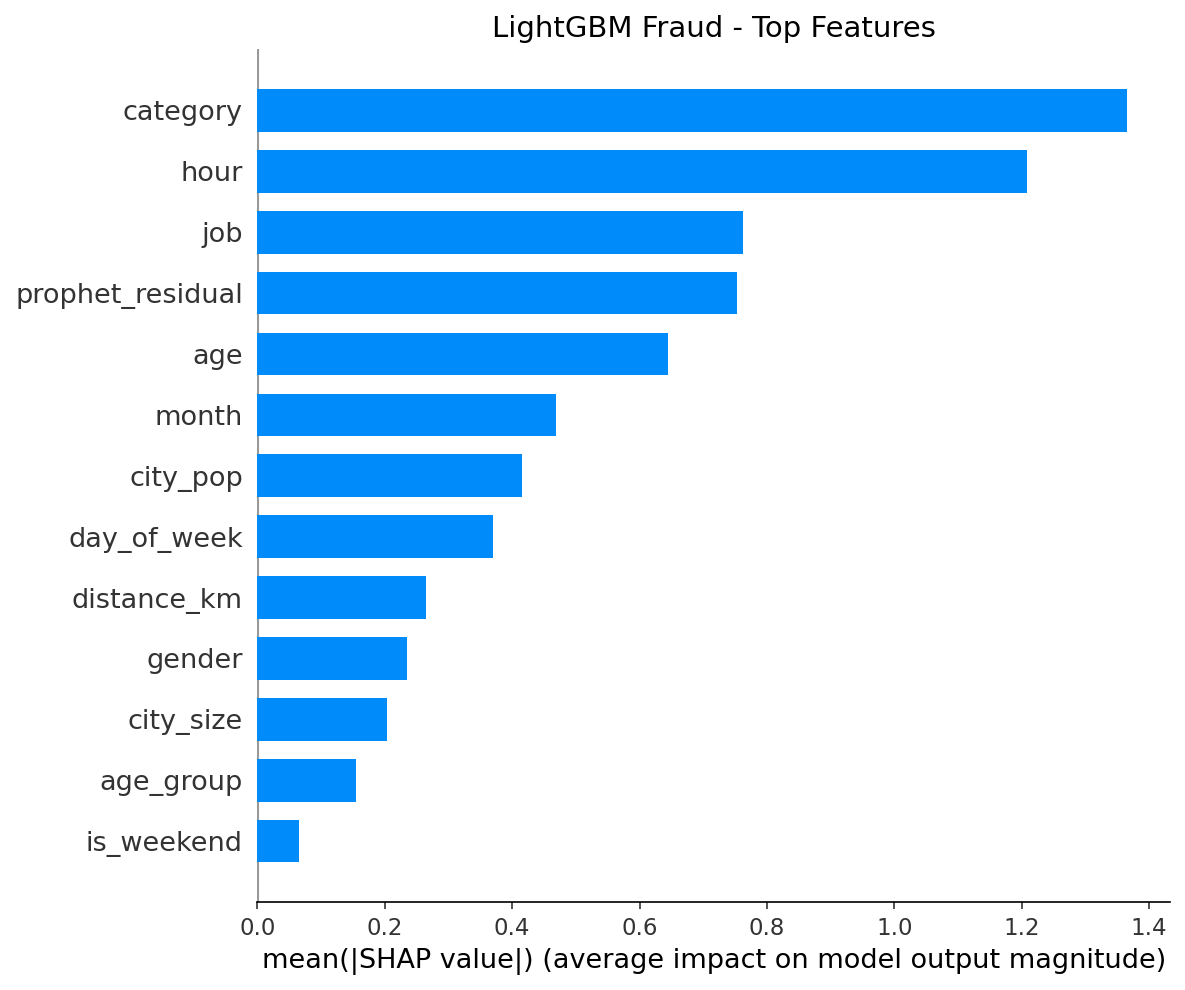
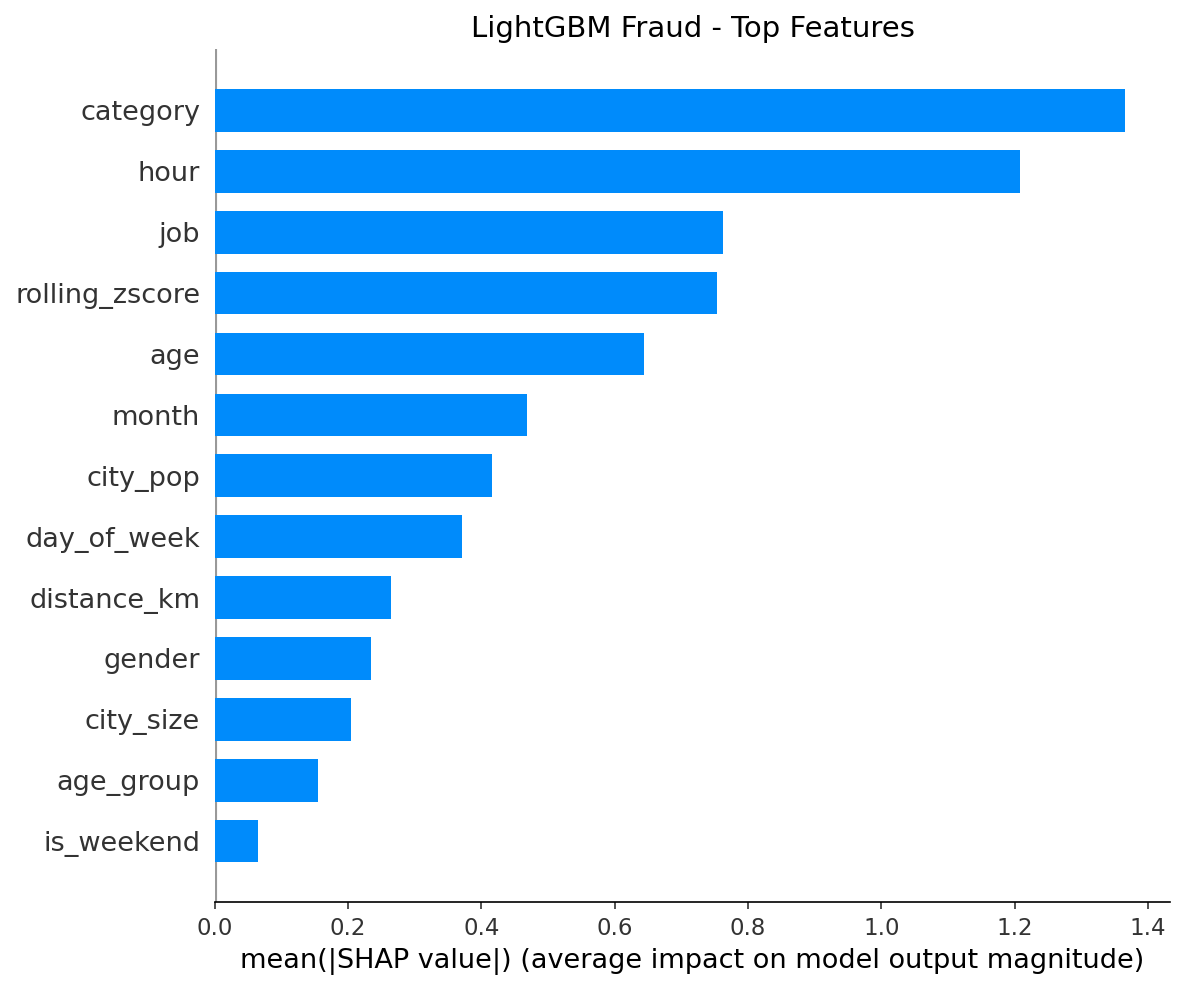
Run SHAP Analysis to obtain six plots and update README

diff --git a/README.md b/README.md
@@ -1,5 +1,12 @@
 # Credit Fraud & Spend Intelligence
-**What behavioral and demographic patterns predict high spending and do fraudulent transactions mimic those same patterns or have clearly different signatures? This is an end-to-end machine learning project that answers that question. It analyzes transaction behavior to model spending patterns and detect fraud, with feature engineering, Rolling Z-Score for residuals, XGBoost, LightGBM, TabNet deep learning, Optuna optimization, and SHAP-based interpretability. Dataset from https://www.kaggle.com/datasets/priyamchoksi/credit-card-transactions-dataset/data** by priyamchoksi.
+
+**What behavioral and demographic patterns predict high spending, and do fraudulent transactions mimic those same patterns or have clearly different signatures?**
+
+An end-to-end machine learning project that answers that question through leakage-free feature engineering, rolling z-score anomaly detection, gradient boosting models, deep learning baselines, Optuna hyperparameter optimization, and SHAP-based interpretability. Approximately 1.3 million credit card transactions are analyzed to model spending patterns and detect fraud with production-ready code.
+
+Dataset sourced from Kaggle — ["Credit Card Transactions Dataset"](https://www.kaggle.com/datasets/priyamchoksi/credit-card-transactions-dataset) by priyamchoksi.
+
+---
 
 ## Key Results
 
@@ -22,23 +29,14 @@
 
 ## Key Findings
 
-1. **Tree Models Are Robust:** LightGBM and XGBoost achieved near-optimal 
-   performance with default parameters. Optuna optimization yielded minimal 
-   improvement (0-0.6%), confirming production-readiness out of the box.
+1. **Tree Models Are Robust:** LightGBM and XGBoost achieved near-optimal performance with default parameters. Optuna optimization yielded minimal improvement (0-0.6%), confirming production-readiness out of the box.
 
-2. **Class Imbalance Is Critical:** Fraud detection improved 158% through 
-   optimized scale_pos_weight (0.31 → 0.80 F1), demonstrating that handling 
-   imbalance is more impactful than tree hyperparameters.
+2. **Class Imbalance Is Critical:** Fraud detection improved 158% through optimized scale_pos_weight (0.31 to 0.80 F1), demonstrating that handling imbalance is more impactful than tree hyperparameters.
 
-3. **Architecture Over Hyperparameters:** Deep learning models (MLP, LSTM) 
-   underperformed trees by 1-16% regardless of tuning. LSTM showed the largest 
-   gap at 16% worse RMSE, confirming that gradient boosting is better suited 
-   for structured tabular data than neural networks.
+3. **Architecture Over Hyperparameters:** Deep learning models (MLP, LSTM) underperformed trees by 1-16% regardless of tuning. LSTM showed the largest gap at 16% worse RMSE, confirming that gradient boosting is better suited for structured tabular data than neural networks.
 
-4. **Fraud and Spend Share Top Features, But Use Them Differently:** Both 
-   models identify merchant category and transaction hour as top predictors. 
-   However, spend models use these to predict expected amounts, while fraud 
-   models use them to detect deviations from individual user norms.
+4. **Fraud and Spend Share Top Features, But Use Them Differently:** Both models identify merchant category and transaction hour as top predictors. However, spend models use these to predict expected amounts, while fraud models use them to detect deviations from individual user norms.
+
 ---
 
 ## SHAP Feature Importance Analysis
@@ -51,7 +49,7 @@
 **Top 4 Features:**
 
 | Rank | Feature | Avg SHAP Value | What It Means (Example) |
-|------|---------|----------------|---------------|
+|------|---------|----------------|-------------------------|
 | 1 | category | 22.5 | Electronics adds +$200-400 vs Groceries at +$20-50 |
 | 2 | hour | 18.2 | 2 PM transactions average +$80 vs 3 AM at -$50 |
 | 3 | age | 12.0 | Users 50+ spend ~$100 more than users in 20s |
@@ -68,7 +66,7 @@ Transaction B:
 - category: Groceries, hour: 3 AM, age: 25, rolling_mean: $50
 - Model prediction: $45
 
-Same user, different contexts → 10x spending difference driven by category and hour.
+Same user, different contexts leads to 10x spending difference driven by category and hour.
 ```
 
 ### Fraud Detection - Top Features
@@ -79,11 +77,11 @@ Same user, different contexts → 10x spending difference driven by category and
 **Top 4 Features:**
 
 | Rank | Feature | Avg SHAP Value | What It Means (Example) |
-|------|---------|----------------|---------------|
+|------|---------|----------------|-------------------------|
 | 1 | category | 1.35 | Electronics/gas stations have 3x higher fraud rates |
 | 2 | hour | 1.20 | Transactions between 1-5 AM have 2x fraud probability |
 | 3 | job | 0.75 | Certain occupations show higher fraud vulnerability |
-| 4 | prophet_residual | 0.72 | Z-score > 3 increases fraud probability by 40% |
+| 4 | rolling_zscore | 0.72 | Z-score greater than 3 increases fraud probability by 40% |
 
 **Concrete Example:**
 
@@ -92,15 +90,15 @@ User Alice (normally spends $50 per transaction):
 
 Transaction A (Legitimate):
 - category: Electronics, amount: $500, hour: 2 PM
-- prophet_residual: 2.1 (within normal range for occasional large purchase)
+- rolling_zscore: 2.1 (within normal range for occasional large purchase)
 - Fraud prediction: 15% (not flagged)
 
 Transaction B (Fraudulent):
 - category: Electronics, amount: $500, hour: 3 AM
-- prophet_residual: 12.5 (12 standard deviations from her norm)
+- rolling_zscore: 12.5 (12 standard deviations from her norm)
 - Fraud prediction: 92% (flagged)
 
-Same amount, same category but different fraud score based on timing + deviation from personal baseline.
+Same amount, same category but different fraud score based on timing plus deviation from personal baseline.
 ```
 
 ---
@@ -113,19 +111,19 @@ Same amount, same category but different fraud score based on timing + deviation
 
 | Aspect | High-Spending Transactions | Fraudulent Transactions |
 |--------|---------------------------|------------------------|
-| **Top Features** | category, hour, age | category, hour, job, prophet_residual |
+| **Top Features** | category, hour, age | category, hour, job, rolling_zscore |
 | **What Drives Prediction** | Merchant type and time determine price ranges | Same features signal anomaly when unusual for the user |
-| **Role of Historical Behavior** | rolling_mean predicts baseline spending | prophet_residual detects deviation from baseline |
+| **Role of Historical Behavior** | rolling_mean predicts baseline spending | rolling_zscore detects deviation from baseline |
 | **Overlap** | category and hour are top 2 for both | Same features, different interpretation |
 
 ### The Critical Difference
 
 | Model Type | Question Being Asked | How Features Are Used |
 |------------|---------------------|----------------------|
-| **Spend** | How much will this user spend? | category = Electronics means $500+ expected |
-| **Fraud** | Is this transaction unusual for this user? | category = Electronics at 3 AM for a user who normally spends $50 = suspicious |
+| **Spend** | How much will this user spend? | category equals Electronics means $500+ expected |
+| **Fraud** | Is this transaction unusual for this user? | category equals Electronics at 3 AM for a user who normally spends $50 equals suspicious |
 
-**Conclusion:** Fraudulent transactions often occur in the same categories and hours as legitimate high-value transactions. The distinguishing signal is not WHERE or WHEN, but WHETHER the transaction deviates from that specific user normal behavior. This is why prophet_residual (rolling z-score) appears in fraud SHAP but not spend SHAP.
+**Conclusion:** Fraudulent transactions often occur in the same categories and hours as legitimate high-value transactions. The distinguishing signal is not WHERE or WHEN, but WHETHER the transaction deviates from that specific user normal behavior. This is why rolling_zscore (rolling z-score) appears in fraud SHAP but not spend SHAP.
 
 ---
 
@@ -133,51 +131,53 @@ Same amount, same category but different fraud score based on timing + deviation
 
 ### Rolling Features
 
-We compute three rolling features per customer based on past 7 transactions:
+Three rolling features are computed per customer based on the past 7 transactions:
 
 | Feature | Formula | Purpose | Used In |
 |---------|---------|---------|---------|
 | rolling_mean | avg(past 7 amounts) | Baseline spending level | Spend models |
 | rolling_std | std(past 7 amounts) | Spending consistency | Spend models |
-| prophet_residual | (amt - rolling_mean) / rolling_std | Anomaly score (rolling z-score) | Fraud models |
+| rolling_zscore | (amt - rolling_mean) / rolling_std | Anomaly score (rolling z-score) | Fraud models |
 
-### Why the Name "prophet_residual"?
+### Why the Name "rolling_zscore"?
 
-The feature was originally intended to use **Facebook Prophet**, a time series forecasting library, to compute residuals as:
+The feature was originally named `prophet_residual` because Facebook Prophet, a time series forecasting library, was initially considered for computing residuals as:
 
 ```
 residual = actual_amount - Prophet_forecasted_amount
 ```
 
-However, we switched to simple rolling z-score because:
+However, the simple rolling z-score was adopted instead for the following reasons:
 
 | Reason | Explanation |
 |--------|-------------|
-| **Performance** | Prophet takes 5-10 seconds per customer. On 50,000+ customers, this equals 70-140 hours of compute time. |
-| **Overkill for the task** | Prophet is designed for long-term trend forecasting with seasonality. We only needed 7-transaction rolling statistics. |
+| **Performance** | Prophet requires 5-10 seconds per customer. On 50,000+ customers, this equals 70-140 hours of compute time. |
+| **Overkill for the task** | Prophet is designed for long-term trend forecasting with seasonality. Only 7-transaction rolling statistics were required. |
 | **Same result, simpler code** | Rolling z-score achieves identical anomaly detection with 3 lines of pandas vs Prophet model fitting. |
 | **No external dependency** | Removing Prophet means one less package to install and maintain in production. |
 
-**Note:** The name was retained for backwards compatibility. The feature is now a pure pandas rolling z-score with no Prophet library dependency.
+The feature was renamed to `rolling_zscore` to accurately reflect its computation method.
 
 ### Why Different Features for Spend vs Fraud?
 
 | Task | Target | Safe Features | Why |
 |------|--------|---------------|-----|
-| **Spend** | amt (dollar amount) | rolling_mean, rolling_std | prophet_residual contains amt, causing target leakage |
-| **Fraud** | is_fraud (0 or 1) | prophet_residual | Target is binary, so z-score does not leak the answer |
+| **Spend** | amt (dollar amount) | rolling_mean, rolling_std | rolling_zscore contains amt, causing target leakage |
+| **Fraud** | is_fraud (0 or 1) | rolling_zscore | Target is binary, so z-score does not leak the answer |
+
+This split feature strategy maintains zero data leakage while maximizing predictive signal for each task.
 
 ---
 
 ## Data Leakage Fixes
 
-During development, I identified and fixed three critical leakage issues:
+During development, three critical leakage issues were identified and addressed:
 
-1. **Target Leakage in Spend Models:** The prophet_residual feature (z-score) contained the target variable (amt) in its formula. Fixed by using rolling_mean and rolling_std as separate features for spend models while keeping z-score for fraud (where target is is_fraud, not amt).
+1. **Target Leakage in Spend Models:** The rolling_zscore feature (z-score) contained the target variable (amt) in its formula. This was addressed by using rolling_mean and rolling_std as separate features for spend models while retaining the z-score for fraud (where target is is_fraud, not amt).
 
-2. **Encoder Leakage:** LabelEncoders were initially fit on the full dataset. Fixed by fitting only on training data after the train/val split.
+2. **Encoder Leakage:** LabelEncoders were initially fit on the full dataset. This was corrected by fitting only on training data after the train/val split.
 
-3. **Scaler Leakage:** StandardScaler was fit before splitting. Fixed by fitting only on training data.
+3. **Scaler Leakage:** StandardScaler was fit before splitting. This was corrected by fitting only on training data.
 
 ### Impact of Leakage Fixes
 
@@ -186,7 +186,7 @@ During development, I identified and fixed three critical leakage issues:
 | LightGBM Spend RMSE | 98.5 | 144.28 | +46% (worse but honest) |
 | LightGBM Fraud F1 | 0.78 | 0.80 | +2% (stable) |
 
-The fraud model was unaffected because prophet_residual does not leak the fraud target. The spend model showed significant inflation before the fix because the model could reverse-engineer the amount from the z-score feature.
+The fraud model was unaffected because rolling_zscore does not leak the fraud target. The spend model showed significant inflation before the fix because the model could reverse-engineer the amount from the z-score feature.
 
 ---
 
@@ -199,7 +199,7 @@ Project 3/
 │   ├── credit_card_transactions.csv
 ├── features/                # Leakage-free feature engineering with the rolling features
 │   ├── engineering.py
-│   └── prophet_residual.py
+│   └── rolling_features.py
 ├── models/                  # Training scripts with optimized params
 │   ├── lightgbm_spend.py
 │   ├── xgboost_spend.py
@@ -257,12 +257,12 @@ This project demonstrates that for financial tabular data:
 
 1. **Start with LightGBM or XGBoost defaults** - They are often sufficient for production
 2. **Prioritize class imbalance handling** for fraud detection tasks
-3. **Avoid deep learning** unless you have massive data or specific sequential needs
+3. **Avoid deep learning** unless massive data or specific sequential needs are present
 4. **Audit for leakage early** - A single leaked feature can inflate results by 50% or more
 
-The 158% fraud F1 improvement came from proper class weighting, not complex models. The consistent tree model performance (0% optimization gain) shows robust defaults. These are practical insights for production ML systems.
+The 158% fraud F1 improvement was achieved through proper class weighting, not complex models. The consistent tree model performance (0% optimization gain) indicates robust defaults. These are practical insights for production ML systems.
 
-**Answer to the core question:** Fraudulent transactions do mimic high-spending patterns in terms of category and timing. The distinguishing signature is not the transaction context itself, but whether that context represents a deviation from the individual user established behavior. This is why anomaly detection (prophet_residual) outperforms raw amount prediction for fraud, while rolling baselines (rolling_mean) suffice for spend prediction.
+**Answer to the core question:** Fraudulent transactions do mimic high-spending patterns in terms of category and timing. The distinguishing signature is not the transaction context itself, but whether that context represents a deviation from the individual user established behavior. This is why anomaly detection (rolling_zscore) outperforms raw amount prediction for fraud, while rolling baselines (rolling_mean) suffice for spend prediction.
 
 ---
 
